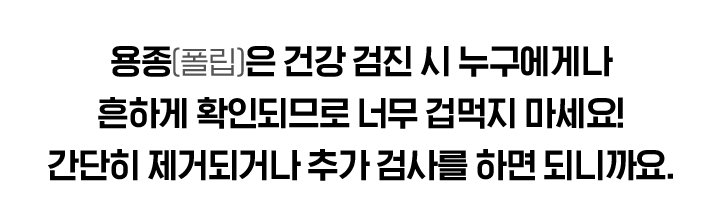
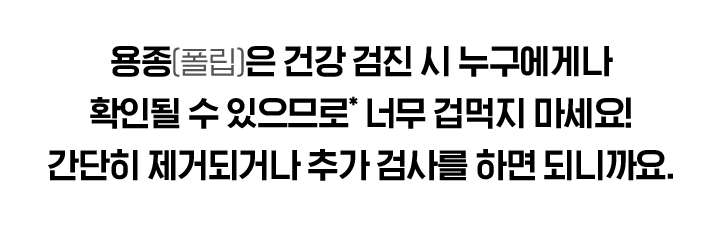
shinhanlife

Changed region(s): [[0.0611, 0.4098, 0.9472, 0.9073], [0.1528, 0.1756, 0.8556, 0.3805]]

diff --git a/index2.html b/index2.html
@@ -48,9 +48,10 @@
       <div class="content">
         <img src="img2/step1.png" class="s1" alt="첫째" mov>
         <img src="img2/step1-txt.png" class="s2" alt="용종(폴립)은 건강 검진 시 누구에게나 흔하게 확인되므로 너무 겁먹지 마세요! 간단히 제거되거나 추가 검사를 하면 되니까요." mov data-delay="2">
-        <img src="img2/step2.png" class="s3" alt="둘째" mov data-delay="4">
-        <img src="img2/step2-txt1.png" class="s4" alt="건강 검진 전 미리 신한라이프 놀라운3대폴립수술보험에 가입하세요. 그러면 용종(폴립)이 발견되었을 때 발생하는 추가 비용에 대한 걱정이 없습니다." mov data-delay="6">
-        <img src="img2/step2-txt2.png" class="s5" alt="(3대기관 양성물 및 폴립 수술급여금)" mov data-delay="6">
+        <img src="img2/step1-txt1.png" class="s2-1" alt="* 무증상 50세 이상 건강한 성인 중 30-40% 발생 출처 : 대한소화기내시경학회 (2021.8)" mov data-delay="2">
+        <img src="img2/step2.png" class="s3" alt="둘째" mov data-delay="2">
+        <img src="img2/step2-txt1.png" class="s4" alt="건강 검진 전 미리 신한라이프 놀라운3대폴립수술보험에 가입하세요. 그러면 용종(폴립)이 발견되었을 때 발생하는 추가 비용에 대한 걱정이 없습니다." mov data-delay="2">
+        <img src="img2/step2-txt2.png" class="s5" alt="(3대기관 양성물 및 폴립 수술급여금)" mov data-delay="2">
       </div>
       <div class="content2">
         <img src="img2/sec3-1.png" class="ct1" alt="폴립이 발견돼도 안심하고 검진" mov>
@@ -68,25 +69,6 @@
         $('.ready').removeClass('ready');
       },500)
     });
-    // function shakeMoving() {
-    //   $('.shape1').animate({'marginTop' : '0'}, 100).animate({'marginTop' : '3'}, 150, function() { shakeMoving(); });
-    //   $('.shape2').animate({'marginLeft' : '0'}, 150).animate({'marginLeft' : '4'}, 100, function() { shakeMoving(); });
-    //   $('.shape3').animate({'marginTop' : '0'}, 120).animate({'marginTop' : '2'}, 200, function() { shakeMoving(); });
-    //   $('.shape4').animate({'marginLeft' : '0'}, 80).animate({'marginLeft' : '2'}, 200, function() { shakeMoving(); });
-    //   $('.shape5').animate({'marginTop' : '0'}, 120).animate({'marginTop' : '2'}, 150, function() { shakeMoving(); });
-    //   $('.shape6').animate({'marginLeft' : '0'}, 80).animate({'marginLeft' : '2'}, 100, function() { shakeMoving(); });
-    //   $('.shape7').animate({'marginLeft' : '0'}, 120).animate({'marginLeft' : '2'}, 80, function() { shakeMoving(); });
-    //   $('.shape8').animate({'marginTop' : '0'}, 200).animate({'marginTop' : '2'}, 200, function() { shakeMoving(); });
-    //   $('.shape9').animate({'marginLeft' : '0'}, 120).animate({'marginLeft' : '2'}, 200, function() { shakeMoving(); });
-    //   $('.shape10').animate({'marginLeft' : '0'}, 70).animate({'marginLeft' : '2'}, 150, function() { shakeMoving(); });
-    //   $('.shape11').animate({'marginLeft' : '0'}, 200).animate({'marginLeft' : '2'}, 100, function() { shakeMoving(); });
-    //   $('.shape12').animate({'marginTop' : '0'}, 120).animate({'marginTop' : '2'}, 200, function() { shakeMoving(); });
-    //   $('.shape13').animate({'marginLeft' : '0'}, 120).animate({'marginLeft' : '2'}, 200, function() { shakeMoving(); });
-    //   $('.shape14').animate({'marginTop' : '0'}, 120).animate({'marginTop' : '2'}, 200, function() { shakeMoving(); });
-    //   $('.shape15').animate({'marginLeft' : '0'}, 120).animate({'marginLeft' : '2'}, 100, function() { shakeMoving(); });
-    //   $('.shape16').animate({'marginTop' : '0'}, 120).animate({'marginTop' : '2'}, 80, function() { shakeMoving(); });
-    // }
-    // shakeMoving();
     var mov = document.querySelectorAll('[mov]');
     function movCheck() {
       var bottom = window.innerHeight;

diff --git a/css/style2.less b/css/style2.less
@@ -52,7 +52,8 @@ img { image-rendering: auto; backface-visibility: visible; .ib; }
     }
     .content { .p(0);
       .s1 { .wh(720,149); }
-      .s2 { .wh(720,205); }
+      .s2 { .wh(720,226); }
+      .s2-1 { .wh(720,111); }
       .s3 { .wh(720,149); }
       .s4 { .wh(720,267); }
       .s5 { .wh(720,117); }

diff --git a/css/style2.css b/css/style2.css
@@ -250,7 +250,11 @@ img {
 }
 .container .wrap .content .s2 {
   width: 100vw;
-  height: 28.47222222vw;
+  height: 31.38888889vw;
+}
+.container .wrap .content .s2-1 {
+  width: 100vw;
+  height: 15.41666667vw;
 }
 .container .wrap .content .s3 {
   width: 100vw;
